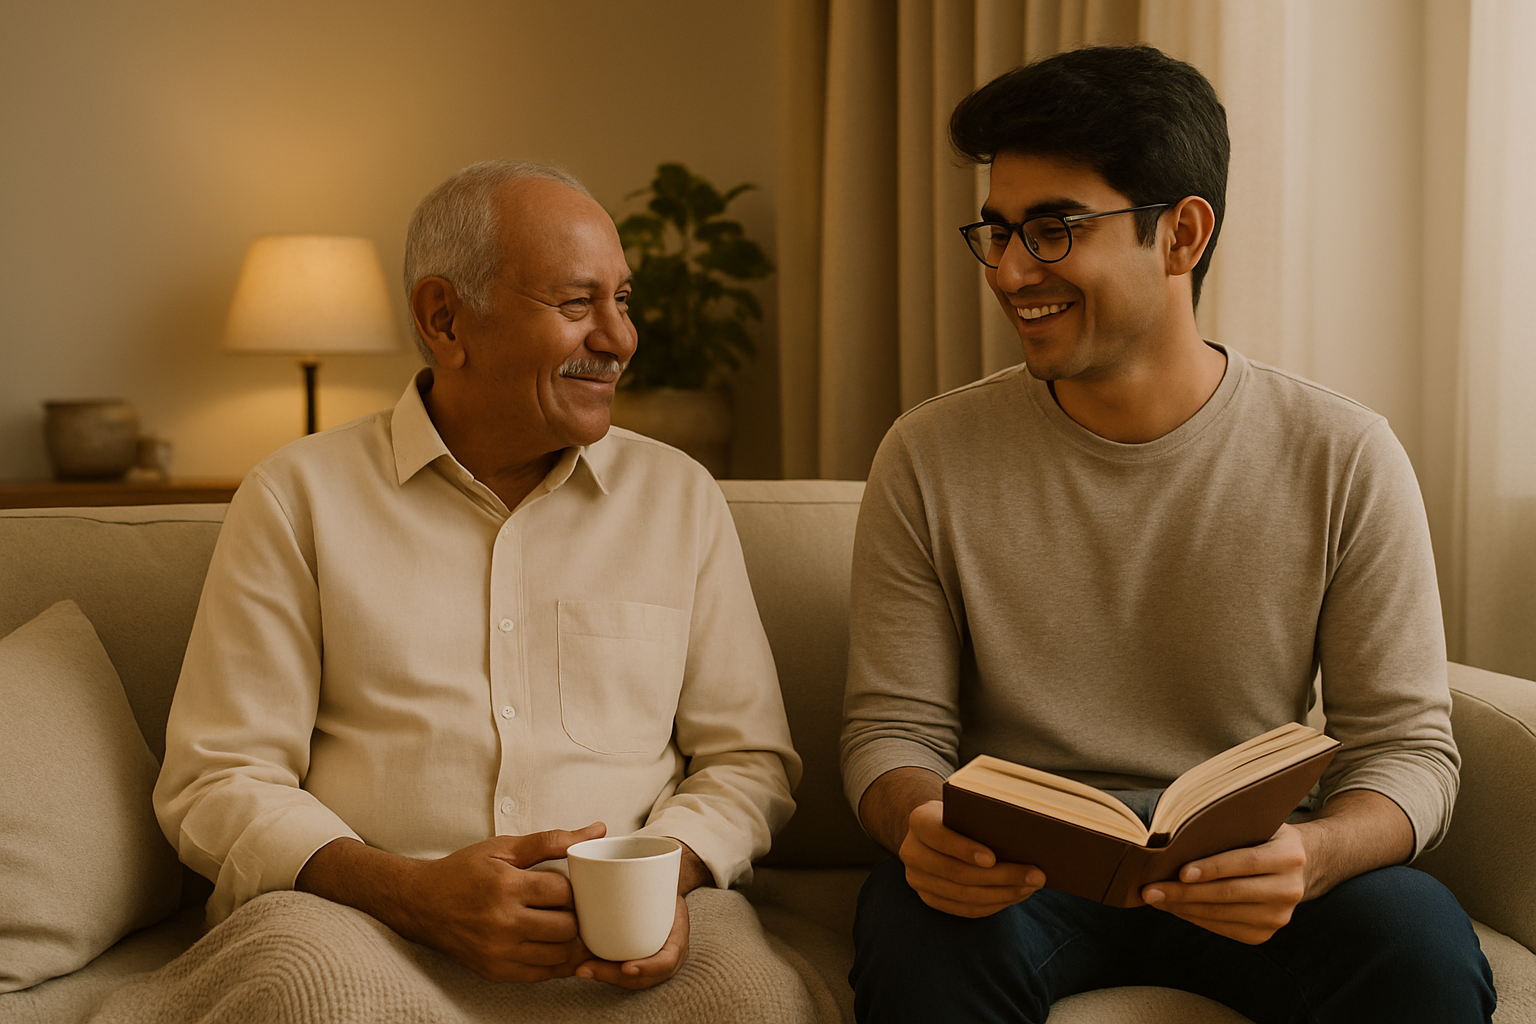
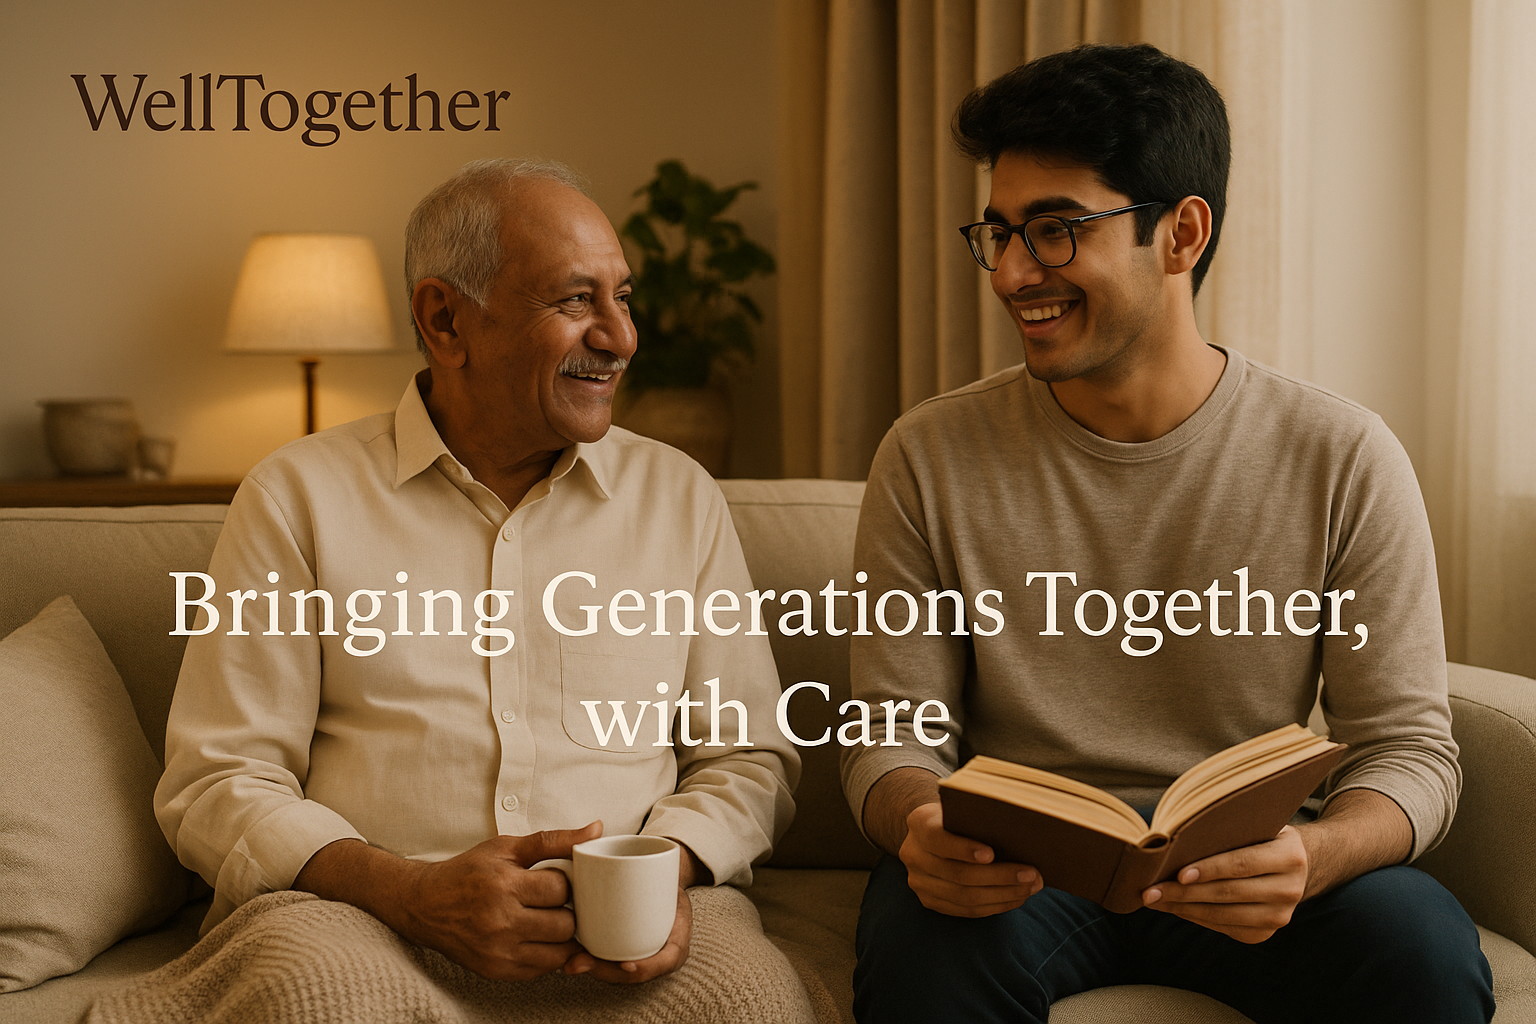
undone changes

diff --git a/src/App.jsx b/src/App.jsx
@@ -12,12 +12,12 @@ import JoinComm from './assets/JoinComm.mp4';
 const services = [
   {
     title: "Take my Parents for Visit",
-    description: "Care giver can take your parents to hospital or anywhere else. Services starting INR 100 only",
+    description: "Our MannMitra Interns can take parents to Social visits or hospitals or anywhere they like.",
     image: ParentsVisit
   },
   {
-    title: "Spend Time with Parents",
-    description: "Conversations are the best medicines! We believe that, care giver will speak to them.",
+    title: "Companionship",
+    description: "Be it conversations or doing an activity together, our MannMitra Interns have got you covered. From chatting to playing 3Patti, we are your best Companions.",
     image: SpeakToParents
   },
   {
@@ -35,15 +35,15 @@ export default function App() {
       {/* Section 1 - Hero */}
       <section className="px-6 py-10 bg-[#FDFAF5]">
         <div className="container-box mx-auto flex flex-col md:flex-row items-center justify-between">
-          <div className="md:w-1/2 mb-6 md:mb-0">
+          {/* <div className="md:w-1/2 mb-6 md:mb-0">
             <h1 className="text-4xl md:text-5xl  font-bold mb-4 text-blue">
               Bringing Generations Together, With Care
             </h1>
             <h2 className="text-2xl text-myblue mb-4">
               Connecting elderly and parents with college students providing care and companionship.
             </h2>
-          </div>
-          <div className="md:w-1/2">
+          </div> */}
+          <div className="md:w-full">
             <img
               src={HomePage}
               alt="Family Care"
@@ -91,27 +91,27 @@ export default function App() {
         <div className="grid grid-cols-1 md:grid-cols-5 gap-6 text-center">
           <div>
             <div className="text-blue-600 text-3xl mb-2">🔍</div>
-            <p className="font-medium  text-black">Care givers at your place</p>
+            <p className="font-medium  text-black">Care Givers at Your Place</p>
             <p className="text-sm  text-black">Your place, your rules, our care givers</p>
           </div>
           <div>
             <div className="text-blue-600 text-3xl mb-2">📅</div>
-            <p className="font-medium  text-black">No commitments</p>
-            <p className="text-sm  text-black">Book for assistance as you want. No min hrs required.</p>
+            <p className="font-medium  text-black">No Commitments</p>
+            <p className="text-sm  text-black">Book for assistance when you want. No Monthly commitments, No min hrs required.</p>
           </div>
           <div>
             <div className="text-blue-600 text-3xl mb-2">🎓</div>
-            <p className="font-medium  text-black">Educated care givers</p>
-            <p className="text-sm  text-black">Our care givers are well educated and understand family values just as you do.</p>
+            <p className="font-medium  text-black">Educated Care Givers</p>
+            <p className="text-sm  text-black">Our care givers understand family values just as you do.</p>
           </div>
           <div>
             <div className="text-blue-600 text-3xl mb-2">🛡</div>
-            <p className="font-medium  text-black">Verified Backgrounds</p>
-            <p className="text-sm  text-black">Verified care givers to ensure your safety.</p>
+            <p className="font-medium  text-black">Multi-Layered Checks</p>
+            <p className="text-sm  text-black">To ensure your safety, we do digital, physical and social background verification for all our users.</p>
           </div>
           <div>
             <div className="text-blue-600 text-3xl mb-2">👁</div>
-            <p className="font-medium  text-black">Honest reviews</p>
+            <p className="font-medium  text-black">Honest Reviews</p>
             <p className="text-sm  text-black">See reviews before you book any care givers.</p>
           </div>
         </div>

diff --git a/src/App.css b/src/App.css
@@ -16,6 +16,9 @@
   width: var(--container-width-sm);
   margin:auto;
 }
+.container-height{
+  height: 20vh;
+}
 @media (min-width: 800) { /* medium screens */
   .container-box {
     width: var(--container-width-md);
